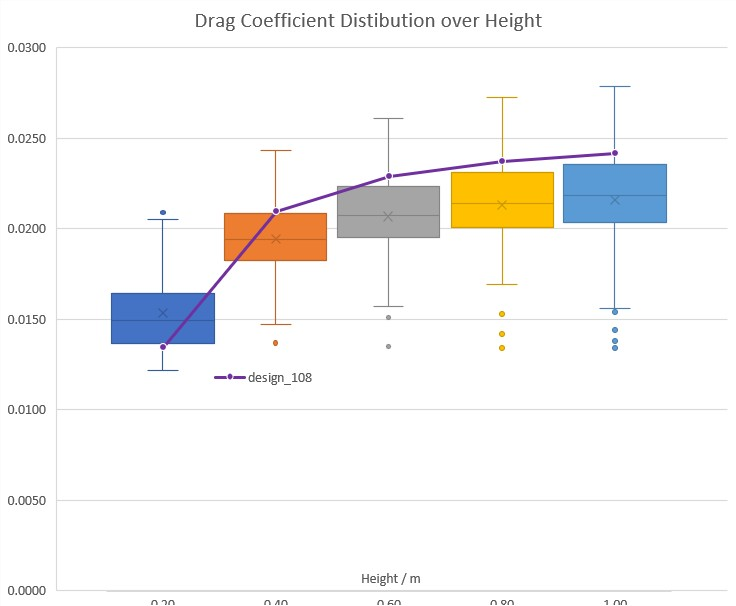
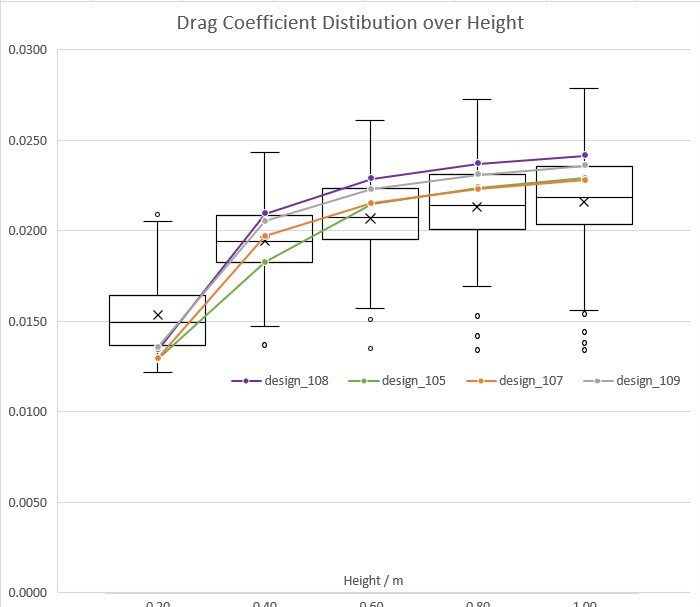
update

diff --git a/script.js b/script.js
@@ -1046,19 +1046,55 @@ const projectData = {
     media: [
       {
         type: "album",
+        label: "Best Design Geometries",
+        images: [
+          {
+            type: "image",
+            src: "./assets/projects/genetic-aerodynamic-optimisation/best_design_iso.jpg",
+            alt: "Best Design Isometric View",
+            description: "Isometric view of the optimized wing design geometry."
+          },
+          {
+            type: "image",
+            src: "./assets/projects/genetic-aerodynamic-optimisation/best_design_top.jpg",
+            alt: "Best Design Top View",
+            description: "Top-down view of the optimized wing design geometry."
+          },
+          {
+            type: "image",
+            src: "./assets/projects/genetic-aerodynamic-optimisation/best_design_front.jpg",
+            alt: "Best Design Front View",
+            description: "Front view of the optimized wing design geometry."
+          },
+          {
+            type: "image",
+            src: "./assets/projects/genetic-aerodynamic-optimisation/best_design_side.jpg",
+            alt: "Best Design Side View",
+            description: "Side profile view of the optimized wing design geometry."
+          }
+        ]
+      },
+      {
+        type: "album",
         label: "Performance Distribution of Population and Optimised Design",
         images: [
           {
             type: "image",
+            src: "./assets/projects/genetic-aerodynamic-optimisation/design_108_lifttodrag_distri.jpg",
+            alt: "Lift-to-Drag Ratio Distribution of Population and Optimised Design",
+            description: "Lift-to-drag ratio distribution comparing the genetic population wings against the optimized profiles."
+          },
+          {
+            type: "image",
             src: "./assets/projects/genetic-aerodynamic-optimisation/design_108_liftcoef_distri.jpg",
             alt: "Lift Coefficient Distribution of Population and Optimised Design",
-            description: "Lift coefficient distribution comparing the genetic population wings against the optimized design_108 profile."
+            description: "Lift coefficient distribution comparing the genetic population wings against the optimized profiles."
           },
           {
             type: "image",
             src: "./assets/projects/genetic-aerodynamic-optimisation/design_108_dragcoef_distri.jpg",
             alt: "Drag Coefficient Distribution of Population and Optimised Design",
-            description: "Drag coefficient distribution comparing the genetic population wings against the optimized design_108 profile."
+            description: "Drag coefficient distribution comparing the genetic population wings against the optimized profiles."
           }
         ]
       },
@@ -1191,7 +1227,7 @@ const projectData = {
         ]
       }
     ],
-    tags: ["Evolutionary Model", "OpenFOAM", "ForgeCAD"],
+    tags: ["Evolutionary Model", "OpenFOAM", "ForgeCAD", "Claude Opus 4.7", "Codex GPT 5.5"],
     flowchart: {
       steps: [
         {
@@ -2575,7 +2611,7 @@ function openModal(projectId) {
         flowchartPanel.innerHTML = `
           <p class="modal-section-heading">PROJECT WORKFLOW</p>
           <div class="aerospace-flowchart-container">
-            <svg width="100%" viewBox="0 0 540 1150" xmlns="http://www.w3.org/2000/svg" style="background: transparent; font-family: 'JetBrains Mono', monospace;">
+            <svg width="100%" viewBox="0 0 540 855" xmlns="http://www.w3.org/2000/svg" style="background: transparent; font-family: 'JetBrains Mono', monospace;">
               <defs>
                 <!-- Glow filter -->
                 <filter id="glow-pink" x="-20%" y="-20%" width="140%" height="140%">
@@ -2595,84 +2631,62 @@ function openModal(projectId) {
               </defs>
 
               <!-- Standard top down connectors -->
-              <line x1="270" y1="85" x2="270" y2="120" stroke="rgba(148, 163, 184, 0.3)" stroke-width="1.5" marker-end="url(#arrow)" />
-              <line x1="270" y1="185" x2="270" y2="220" stroke="rgba(148, 163, 184, 0.3)" stroke-width="1.5" marker-end="url(#arrow)" />
-              <line x1="270" y1="285" x2="270" y2="320" stroke="rgba(148, 163, 184, 0.3)" stroke-width="1.5" marker-end="url(#arrow)" />
+              <line x1="270" y1="100" x2="270" y2="135" stroke="rgba(148, 163, 184, 0.3)" stroke-width="1.5" marker-end="url(#arrow)" />
+              <line x1="270" y1="200" x2="270" y2="235" stroke="rgba(148, 163, 184, 0.3)" stroke-width="1.5" marker-end="url(#arrow)" />
 
               <!-- Connectors inside recursive loop -->
-              <line x1="270" y1="400" x2="270" y2="450" stroke="#F3B6D0" stroke-width="1.5" marker-end="url(#arrow-pink)" />
-              <line x1="270" y1="515" x2="270" y2="550" stroke="#F3B6D0" stroke-width="1.5" marker-end="url(#arrow-pink)" />
-              <line x1="270" y1="615" x2="270" y2="650" stroke="#F3B6D0" stroke-width="1.5" marker-end="url(#arrow-pink)" />
-              <line x1="270" y1="715" x2="270" y2="750" stroke="#F3B6D0" stroke-width="1.5" marker-end="url(#arrow-pink)" />
-              <line x1="270" y1="840" x2="270" y2="870" stroke="#F3B6D0" stroke-width="1.5" marker-end="url(#arrow-pink)" />
-              <line x1="270" y1="935" x2="270" y2="965" stroke="#F3B6D0" stroke-width="1.5" marker-end="url(#arrow-pink)" />
+              <line x1="270" y1="300" x2="270" y2="335" stroke="#F3B6D0" stroke-width="1.5" marker-end="url(#arrow-pink)" />
+              <line x1="270" y1="400" x2="270" y2="435" stroke="#F3B6D0" stroke-width="1.5" marker-end="url(#arrow-pink)" />
+              <line x1="270" y1="500" x2="270" y2="535" stroke="#F3B6D0" stroke-width="1.5" marker-end="url(#arrow-pink)" />
+              <line x1="270" y1="625" x2="270" y2="650" stroke="#F3B6D0" stroke-width="1.5" marker-end="url(#arrow-pink)" />
 
               <!-- Left side Loop Back connection path (scaled outward to X=30) -->
-              <path d="M 170 1005 L 30 1005 L 30 367 L 70 367" fill="none" stroke="#F3B6D0" stroke-width="1.5" stroke-dasharray="4,3" marker-end="url(#arrow-pink)" filter="url(#glow-pink)" />
-              <text x="40" y="995" fill="#F3B6D0" font-size="9px" font-weight="700">NO [GEN &lt; 10]</text>
-              <text x="4" y="358" fill="#F3B6D0" font-size="8px" letter-spacing="0.05em">LOOP: GEN ++</text>
+              <path d="M 170 690 L 30 690 L 30 267 L 70 267" fill="none" stroke="#F3B6D0" stroke-width="1.5" stroke-dasharray="4,3" marker-end="url(#arrow-pink)" filter="url(#glow-pink)" />
+              <text x="40" y="680" fill="#F3B6D0" font-size="9px" font-weight="700">NO [GEN &lt; 10]</text>
+              <text x="4" y="258" fill="#F3B6D0" font-size="8px" letter-spacing="0.05em">LOOP: GEN ++</text>
 
               <!-- YES path to output -->
-              <line x1="270" y1="1045" x2="270" y2="1075" stroke="rgba(148, 163, 184, 0.4)" stroke-width="1.5" marker-end="url(#arrow)" />
-              <text x="280" y="1063" fill="rgba(148, 163, 184, 0.6)" font-size="9px" font-weight="700">YES [GEN == 10]</text>
+              <line x1="270" y1="730" x2="270" y2="760" stroke="rgba(148, 163, 184, 0.4)" stroke-width="1.5" marker-end="url(#arrow)" />
+              <text x="280" y="748" fill="rgba(148, 163, 184, 0.6)" font-size="9px" font-weight="700">YES [GEN == 10]</text>
 
-              <!-- Node 1: Initial Population -->
+              <!-- Node 1: Initial Population Geometry Generation -->
               <g transform="translate(70, 20)">
-                <rect width="400" height="65" rx="4" fill="rgba(15, 23, 42, 0.85)" stroke="rgba(148, 163, 184, 0.2)" stroke-width="1" />
-                <path d="M 0 5 L 5 0 M 400 5 L 395 0 M 0 60 L 5 65 M 400 60 L 395 65" stroke="rgba(148, 163, 184, 0.4)" />
-                <text x="200" y="25" fill="rgba(148, 163, 184, 0.4)" font-size="9px" font-weight="700" text-anchor="middle" letter-spacing="0.05em">SEEDING</text>
-                <text x="200" y="40" fill="#ffffff" font-size="11px" font-weight="700" text-anchor="middle" font-family="'Space Grotesk', sans-serif">INITIAL POPULATION</text>
-                <text x="200" y="53" fill="rgba(148, 163, 184, 0.7)" font-size="9px" text-anchor="middle">Generate 10 random wing geometries</text>
+                <rect width="400" height="80" rx="4" fill="rgba(15, 23, 42, 0.85)" stroke="rgba(148, 163, 184, 0.2)" stroke-width="1" />
+                <path d="M 0 5 L 5 0 M 400 5 L 395 0 M 0 75 L 5 80 M 400 75 L 395 80" stroke="rgba(148, 163, 184, 0.4)" />
+                <text x="200" y="25" fill="rgba(148, 163, 184, 0.4)" font-size="9px" font-weight="700" text-anchor="middle" letter-spacing="0.05em">SEEDING &amp; CAD SYNTHESIS</text>
+                <text x="200" y="42" fill="#ffffff" font-size="11px" font-weight="700" text-anchor="middle" font-family="'Space Grotesk', sans-serif">INITIAL POPULATION GEOMETRY GENERATION</text>
+                <text x="200" y="58" fill="rgba(148, 163, 184, 0.7)" font-size="9px" text-anchor="middle">Generate 10 random wing genomes &amp; synthesize 3D wing CAD models</text>
               </g>
 
-              <!-- Node 2: Geometry Generation -->
-              <g transform="translate(70, 120)">
-                <rect width="400" height="65" rx="4" fill="rgba(15, 23, 42, 0.85)" stroke="rgba(148, 163, 184, 0.2)" stroke-width="1" />
-                <path d="M 0 5 L 5 0 M 400 5 L 395 0 M 0 60 L 5 65 M 400 60 L 395 65" stroke="rgba(148, 163, 184, 0.4)" />
-                <text x="200" y="25" fill="rgba(148, 163, 184, 0.4)" font-size="9px" font-weight="700" text-anchor="middle" letter-spacing="0.05em">CAD SYNTHESIS</text>
-                <text x="200" y="40" fill="#ffffff" font-size="11px" font-weight="700" text-anchor="middle" font-family="'Space Grotesk', sans-serif">GEOMETRY GENERATION</text>
-                <text x="200" y="53" fill="rgba(148, 163, 184, 0.7)" font-size="8.5px" text-anchor="middle">Convert genome parameters into 3D wing/winglet</text>
-              </g>
-
-              <!-- Node 3: Mesh Generation -->
-              <g transform="translate(70, 220)">
+              <!-- Node 2: Standard Mesh setup -->
+              <g transform="translate(70, 135)">
                 <rect width="400" height="65" rx="4" fill="rgba(15, 23, 42, 0.85)" stroke="rgba(148, 163, 184, 0.2)" stroke-width="1" />
                 <path d="M 0 5 L 5 0 M 400 5 L 395 0 M 0 60 L 5 65 M 400 60 L 395 65" stroke="rgba(148, 163, 184, 0.4)" />
                 <text x="200" y="25" fill="rgba(148, 163, 184, 0.4)" font-size="9px" font-weight="700" text-anchor="middle" letter-spacing="0.05em">DISCRETIZATION</text>
-                <text x="200" y="40" fill="#ffffff" font-size="11px" font-weight="700" text-anchor="middle" font-family="'Space Grotesk', sans-serif">MESH GENERATION</text>
+                <text x="200" y="40" fill="#ffffff" font-size="11px" font-weight="700" text-anchor="middle" font-family="'Space Grotesk', sans-serif">STANDARD MESH SETUP</text>
                 <text x="200" y="53" fill="rgba(148, 163, 184, 0.7)" font-size="9px" text-anchor="middle">Generate CFD mesh automatically</text>
               </g>
 
-              <!-- Node 4: CFD Evaluation -->
-              <g transform="translate(70, 320)">
-                <rect width="400" height="80" rx="4" fill="rgba(15, 23, 42, 0.85)" stroke="#F3B6D0" stroke-width="1" />
-                <path d="M 0 5 L 5 0 M 400 5 L 395 0 M 0 75 L 5 80 M 400 75 L 395 80" stroke="#F3B6D0" />
+              <!-- Node 3: CFD Evaluation -->
+              <g transform="translate(70, 235)">
+                <rect width="400" height="65" rx="4" fill="rgba(15, 23, 42, 0.85)" stroke="#F3B6D0" stroke-width="1" />
+                <path d="M 0 5 L 5 0 M 400 5 L 395 0 M 0 60 L 5 65 M 400 60 L 395 65" stroke="#F3B6D0" />
                 <text x="200" y="25" fill="#F3B6D0" font-size="9px" font-weight="700" text-anchor="middle" letter-spacing="0.05em">SIMULATION</text>
-                <text x="200" y="42" fill="#ffffff" font-size="11px" font-weight="700" text-anchor="middle" font-family="'Space Grotesk', sans-serif">CFD EVALUATION (OPENFOAM)</text>
-                <text x="200" y="56" fill="rgba(148, 163, 184, 0.7)" font-size="8.5px" text-anchor="middle">Run parallelized ground-effect RANS CFD simulation</text>
-                <text x="200" y="70" fill="#F3B6D0" font-size="8.5px" font-weight="700" text-anchor="middle" letter-spacing="0.02em">OUTPUTS: Lift (Cl) | Drag (Cd) | Lift-to-Drag Ratio (L/D)</text>
+                <text x="200" y="40" fill="#ffffff" font-size="11px" font-weight="700" text-anchor="middle" font-family="'Space Grotesk', sans-serif">CFD EVALUATION (OPENFOAM)</text>
+                <text x="200" y="53" fill="rgba(148, 163, 184, 0.7)" font-size="8.5px" text-anchor="middle">Run parallelized ground-effect RANS CFD simulation</text>
               </g>
 
-              <!-- Node 5: Fitness Scoring -->
-              <g transform="translate(70, 450)">
+              <!-- Node 4: Fitness Scoring & Selection -->
+              <g transform="translate(70, 335)">
                 <rect width="400" height="65" rx="4" fill="rgba(15, 23, 42, 0.85)" stroke="#F3B6D0" stroke-width="1" />
                 <path d="M 0 5 L 5 0 M 400 5 L 395 0 M 0 60 L 5 65 M 400 60 L 395 65" stroke="#F3B6D0" />
-                <text x="200" y="25" fill="#F3B6D0" font-size="9px" font-weight="700" text-anchor="middle" letter-spacing="0.05em">MERIT VALUE</text>
-                <text x="200" y="40" fill="#ffffff" font-size="11px" font-weight="700" text-anchor="middle" font-family="'Space Grotesk', sans-serif">FITNESS SCORING</text>
-                <text x="200" y="53" fill="rgba(148, 163, 184, 0.9)" font-size="9px" text-anchor="middle">Fitness Objective: Maximise L/D Ratio</text>
+                <text x="200" y="25" fill="#F3B6D0" font-size="9px" font-weight="700" text-anchor="middle" letter-spacing="0.05em">MERIT VALUE &amp; SURVIVAL</text>
+                <text x="200" y="40" fill="#ffffff" font-size="11px" font-weight="700" text-anchor="middle" font-family="'Space Grotesk', sans-serif">FITNESS SCORING &amp; SELECTION</text>
+                <text x="200" y="53" fill="rgba(148, 163, 184, 0.9)" font-size="8.5px" text-anchor="middle">Select: Top 20% elite + 20% runner-ups</text>
               </g>
 
-              <!-- Node 6: Selection -->
-              <g transform="translate(70, 550)">
-                <rect width="400" height="65" rx="4" fill="rgba(15, 23, 42, 0.85)" stroke="#F3B6D0" stroke-width="1" />
-                <path d="M 0 5 L 5 0 M 400 5 L 395 0 M 0 60 L 5 65 M 400 60 L 395 65" stroke="#F3B6D0" />
-                <text x="200" y="25" fill="#F3B6D0" font-size="9px" font-weight="700" text-anchor="middle" letter-spacing="0.05em">ELITISM &amp; SURVIVAL</text>
-                <text x="200" y="40" fill="#ffffff" font-size="11px" font-weight="700" text-anchor="middle" font-family="'Space Grotesk', sans-serif">SELECTION (SURVIVAL)</text>
-                <text x="200" y="53" fill="rgba(148, 163, 184, 0.9)" font-size="9px" text-anchor="middle">Select: Top 20% elite + 20% runner-ups</text>
-              </g>
-
-              <!-- Node 7: Crossover -->
-              <g transform="translate(70, 650)">
+              <!-- Node 5: Crossover -->
+              <g transform="translate(70, 435)">
                 <rect width="400" height="65" rx="4" fill="rgba(15, 23, 42, 0.85)" stroke="#F3B6D0" stroke-width="1" />
                 <path d="M 0 5 L 5 0 M 400 5 L 395 0 M 0 60 L 5 65 M 400 60 L 395 65" stroke="#F3B6D0" />
                 <text x="200" y="25" fill="#F3B6D0" font-size="9px" font-weight="700" text-anchor="middle" letter-spacing="0.05em">REPRODUCTION</text>
@@ -2680,8 +2694,8 @@ function openModal(projectId) {
                 <text x="200" y="53" fill="rgba(148, 163, 184, 0.9)" font-size="9px" text-anchor="middle">Combine genome parameters from parent wings</text>
               </g>
 
-              <!-- Node 8: Mutation -->
-              <g transform="translate(70, 750)">
+              <!-- Node 6: Mutation -->
+              <g transform="translate(70, 535)">
                 <rect width="400" height="90" rx="4" fill="rgba(15, 23, 42, 0.85)" stroke="#F3B6D0" stroke-width="1" />
                 <path d="M 0 5 L 5 0 M 400 5 L 395 0 M 0 85 L 5 90 M 400 85 L 395 90" stroke="#F3B6D0" />
                 <text x="200" y="25" fill="#F3B6D0" font-size="9px" font-weight="700" text-anchor="middle" letter-spacing="0.05em">GENETIC SHUFFLE</text>
@@ -2690,24 +2704,15 @@ function openModal(projectId) {
                 <text x="200" y="74" fill="rgba(148, 163, 184, 0.9)" font-size="8.5px" text-anchor="middle">spanwise wing curvature, and winglet geometries</text>
               </g>
 
-              <!-- Node 9: Next Gen -->
-              <g transform="translate(70, 870)">
-                <rect width="400" height="65" rx="4" fill="rgba(15, 23, 42, 0.85)" stroke="#F3B6D0" stroke-width="1" />
-                <path d="M 0 5 L 5 0 M 400 5 L 395 0 M 0 60 L 5 65 M 400 60 L 395 65" stroke="#F3B6D0" />
-                <text x="200" y="25" fill="#F3B6D0" font-size="9px" font-weight="700" text-anchor="middle" letter-spacing="0.05em">ITERATION ASSEMBLY</text>
-                <text x="200" y="40" fill="#ffffff" font-size="11px" font-weight="700" text-anchor="middle" font-family="'Space Grotesk', sans-serif">NEXT GEN POPULATION</text>
-                <text x="200" y="53" fill="rgba(148, 163, 184, 0.9)" font-size="9px" text-anchor="middle">Assemble evolved population pool</text>
-              </g>
-
-              <!-- Node 10: Decision (Stop?) -->
-              <g transform="translate(270, 1005)">
+              <!-- Node 7: Decision (Stop?) -->
+              <g transform="translate(270, 690)">
                 <polygon points="0,-40 100,0 0,40 -100,0" fill="rgba(15, 23, 42, 0.9)" stroke="#F3B6D0" stroke-width="1.5" />
                 <text x="0" y="5" fill="#ffffff" font-size="10px" font-weight="700" text-anchor="middle" letter-spacing="0.05em">STOP?</text>
                 <text x="0" y="20" fill="rgba(148, 163, 184, 0.6)" font-size="7.5px" text-anchor="middle">GEN == 10</text>
               </g>
 
-              <!-- Node 11: Optimised Wing Design -->
-              <g transform="translate(70, 1075)">
+              <!-- Node 8: Optimised Wing Design -->
+              <g transform="translate(70, 760)">
                 <rect width="400" height="65" rx="4" fill="rgba(244, 182, 194, 0.05)" stroke="rgba(244, 182, 194, 0.3)" stroke-width="1" />
                 <path d="M 0 5 L 5 0 M 400 5 L 395 0 M 0 60 L 5 65 M 400 60 L 395 65" stroke="rgba(244, 182, 194, 0.4)" />
                 <text x="200" y="25" fill="rgba(244, 182, 194, 0.6)" font-size="9px" font-weight="700" text-anchor="middle" letter-spacing="0.05em">EXTRAPOLATION</text>
